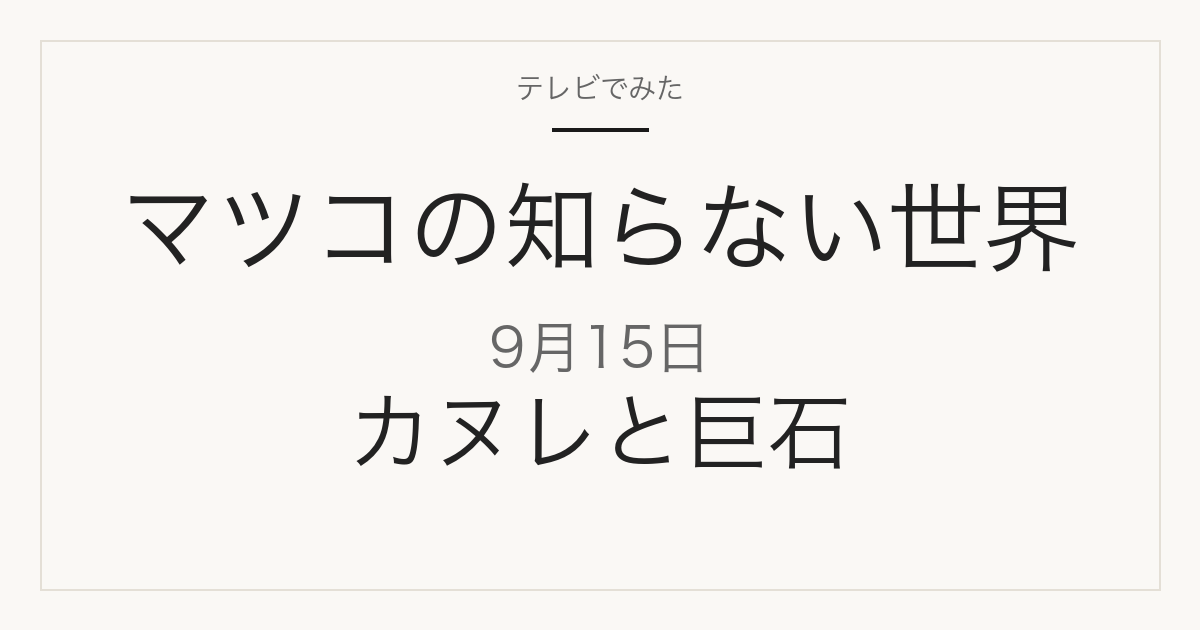
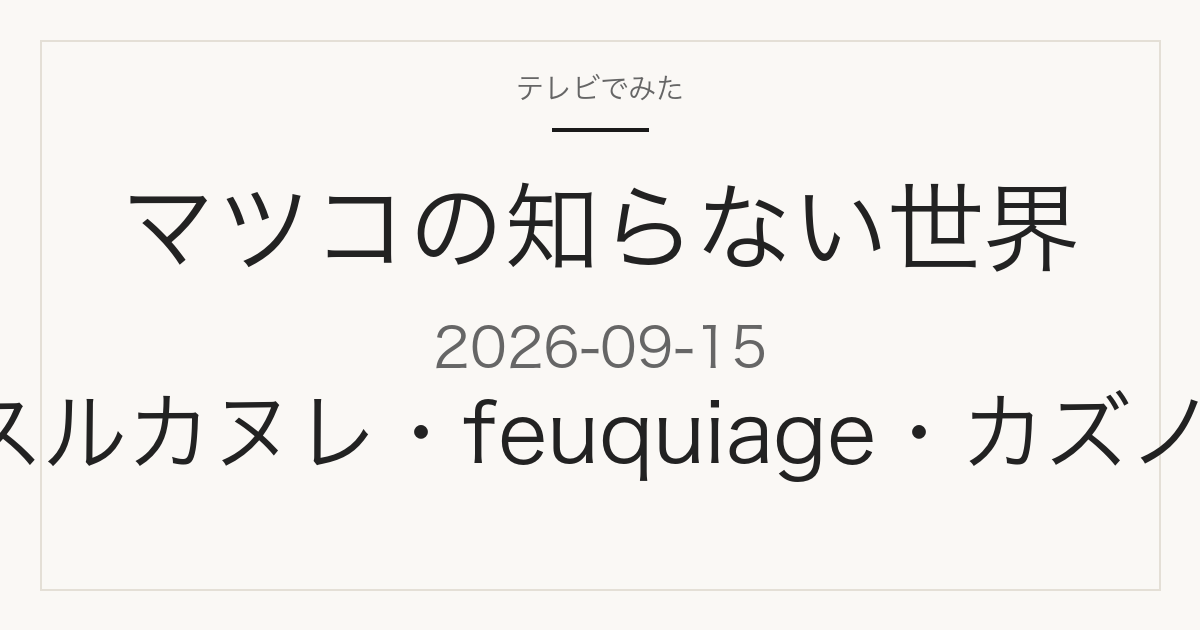
マツコ9/15 放送中更新：紹介された7件を追記 (job content-refresh_existing-22638fa574c0042b v2) (#93)

diff --git a/site/2026-09-15/matsuko/index.html b/site/2026-09-15/matsuko/index.html
@@ -5,29 +5,29 @@
   <script>window.dataLayer=window.dataLayer||[];function gtag(){dataLayer.push(arguments)}gtag('js',new Date());gtag('config','G-YC6J6RL22P');</script>
   <meta charset="utf-8">
   <meta name="viewport" content="width=device-width,initial-scale=1">
-  <title>マツコの知らない世界 9月15日｜カヌレ＆巨石の世界</title>
-  <meta name="description" content="2026年9月15日（火）よる8時55分放送のマツコの知らない世界。王道から甘くない進化系まで、美形カヌレ3選、パン屋のカヌレ、ワインと楽しむ大人のカヌレ。巨石は島根県出雲の秘境へ。">
+  <title>マツコの知らない世界 9月15日｜カヌレの世界で紹介された7店</title>
+  <meta name="description" content="2026年9月15日（火）放送のマツコの知らない世界カヌレの世界で紹介された、クラマエカヌレ・タビスルカヌレ・feuquiage（フキアージュ）・カズノリイケダ・代官山シェ・リュイ・ローソン・カルディコーヒーファームの7店をまとめています。放送中の確認内容として随時更新（最終更新21:39）。">
   <meta name="robots" content="index,follow,max-image-preview:large">
   <link rel="canonical" href="https://tv-mita.jp/2026-09-15/matsuko/">
   <meta property="og:type" content="article">
-  <meta property="og:title" content="マツコの知らない世界 9月15日｜カヌレ＆巨石の世界">
-  <meta property="og:description" content="2026年9月15日（火）よる8時55分放送のマツコの知らない世界。王道から甘くない進化系まで、美形カヌレ3選、パン屋のカヌレ、ワインと楽しむ大人のカヌレ。巨石は島根県出雲の秘境へ。">
+  <meta property="og:title" content="マツコの知らない世界 9月15日｜カヌレの世界で紹介された7店">
+  <meta property="og:description" content="2026年9月15日（火）放送のマツコの知らない世界カヌレの世界で紹介された、クラマエカヌレ・タビスルカヌレ・feuquiage（フキアージュ）・カズノリイケダ・代官山シェ・リュイ・ローソン・カルディコーヒーファームの7店をまとめています。">
   <meta property="og:url" content="https://tv-mita.jp/2026-09-15/matsuko/">
   <meta property="og:image" content="https://tv-mita.jp/og/2026-09-15-matsuko.png">
   <meta property="og:image:width" content="1200">
   <meta property="og:image:height" content="630">
-  <meta property="og:image:alt" content="マツコの知らない世界 カヌレと巨石 2026-09-15">
+  <meta property="og:image:alt" content="マツコの知らない世界 カヌレの世界で紹介された7店 2026-09-15">
   <meta name="twitter:card" content="summary_large_image">
-  <meta name="twitter:title" content="マツコの知らない世界 9月15日｜カヌレ＆巨石の世界">
-  <meta name="twitter:description" content="2026年9月15日（火）よる8時55分放送のマツコの知らない世界。王道から甘くない進化系まで、美形カヌレ3選、パン屋のカヌレ、ワインと楽しむ大人のカヌレ。巨石は島根県出雲の秘境へ。">
+  <meta name="twitter:title" content="マツコの知らない世界 9月15日｜カヌレの世界で紹介された7店">
+  <meta name="twitter:description" content="2026年9月15日（火）放送のマツコの知らない世界カヌレの世界で紹介された7店をまとめています。">
   <meta name="twitter:image" content="https://tv-mita.jp/og/2026-09-15-matsuko.png">
   <link rel="stylesheet" href="../../styles.css">
   <script defer src="/analytics.js"></script>
-  <script type="application/ld+json">{"@context":"https://schema.org","@graph":[{"@type":"Article","headline":"マツコの知らない世界 9月15日｜カヌレ＆巨石の世界","description":"2026年9月15日（火）よる8時55分放送のマツコの知らない世界。王道から甘くない進化系まで、美形カヌレ3選、パン屋のカヌレ、ワインと楽しむ大人のカヌレ。巨石は島根県出雲の秘境へ。","datePublished":"2026-09-15T10:08:00+09:00","dateModified":"2026-09-15T10:08:00+09:00","image":"https://tv-mita.jp/og/2026-09-15-matsuko.png","mainEntityOfPage":"https://tv-mita.jp/2026-09-15/matsuko/","publisher":{"@type":"Organization","name":"テレビでみた"},"author":{"@type":"Organization","name":"テレビでみた編集部"}},{"@type":"BreadcrumbList","itemListElement":[{"@type":"ListItem","position":1,"name":"ホーム","item":"https://tv-mita.jp/"},{"@type":"ListItem","position":2,"name":"マツコの知らない世界","item":"https://tv-mita.jp/matsuko/"},{"@type":"ListItem","position":3,"name":"9月15日","item":"https://tv-mita.jp/2026-09-15/matsuko/"}]}]}</script>
+  <script type="application/ld+json">{"@context":"https://schema.org","@graph":[{"@type":"Article","headline":"マツコの知らない世界 9月15日｜カヌレの世界で紹介された7店","description":"2026年9月15日放送のマツコの知らない世界カヌレの世界で紹介された、クラマエカヌレ・タビスルカヌレ・feuquiage（フキアージュ）・カズノリイケダ・代官山シェ・リュイ・ローソン・カルディコーヒーファームの7店をまとめています。","datePublished":"2026-09-15T10:08:00+09:00","dateModified":"2026-09-15T21:39:00+09:00","image":"https://tv-mita.jp/og/2026-09-15-matsuko.png","mainEntityOfPage":"https://tv-mita.jp/2026-09-15/matsuko/","publisher":{"@type":"Organization","name":"テレビでみた"},"author":{"@type":"Organization","name":"テレビでみた編集部"}},{"@type":"BreadcrumbList","itemListElement":[{"@type":"ListItem","position":1,"name":"ホーム","item":"https://tv-mita.jp/"},{"@type":"ListItem","position":2,"name":"マツコの知らない世界","item":"https://tv-mita.jp/matsuko/"},{"@type":"ListItem","position":3,"name":"9月15日","item":"https://tv-mita.jp/2026-09-15/matsuko/"}]}]}</script>
 </head>
 <body>
   <header class="site-header"><div class="header-inner"><p class="brand"><a href="../../"><span class="brand-mark">TV</span>テレビでみた</a></p><p class="header-note">テレビ紹介商品の記録メディア</p></div></header>
-  <main class="program-main" data-article-id="article-fff1424e9c1c7699" data-article-slug="2026-09-15-matsuko" data-article-version="1">
+  <main class="program-main" data-article-id="article-fff1424e9c1c7699" data-article-slug="2026-09-15-matsuko" data-article-version="2">
     <nav class="breadcrumbs" aria-label="パンくず"><a href="../../">ホーム</a><span aria-hidden="true">›</span><a href="../../matsuko/">マツコの知らない世界</a><span aria-hidden="true">›</span><span>9月15日</span></nav>
 
     <p class="house-notice">この記事には広告・アフィリエイトリンクが含まれる場合があります。</p>
@@ -38,15 +38,79 @@
       <p class="next-time">よる8時55分から（TBS・関東）</p>
       <h1 id="page-title">マツコの知らない世界<br>カヌレ＆巨石の世界</h1>
       <p class="program-feature">地味だけど奥深い！カヌレと巨石を2本立てで</p>
-      <p class="program-hero-note">これは<strong>放送前の記事</strong>です。番組公式で確認できた内容だけを載せています。<strong>店名・商品名・価格はまだ発表されていません。</strong>放送後、確認できたものから同じページに追記します。</p>
-      <a class="program-primary-link" href="#preview">紹介予定の内容を見る <span aria-hidden="true">↓</span></a>
+      <p class="program-hero-note"><strong>放送中に更新しています（最終更新：2026年09月15日 21:39）。</strong>カヌレの世界で紹介された店を、確認できたものから追記しています。価格・順位・受賞など未確認の情報は載せていません。</p>
+      <a class="program-primary-link" href="#confirmed">紹介された店を見る <span aria-hidden="true">↓</span></a>
     </section>
 
     <p class="item-image hero-image"><img src="../../og/2026-09-15-matsuko.png" width="1200" height="630" alt="マツコの知らない世界 カヌレと巨石 2026-09-15"></p>
 
+    <section class="program-section" id="confirmed" aria-labelledby="confirmed-title">
+      <div class="section-heading"><div><p class="section-kicker">放送中に確認</p><h2 id="confirmed-title">カヌレの世界で紹介された店</h2></div><p class="live-status"><span aria-hidden="true"></span>更新 21:39</p></div>
+      <p class="template-note">放送中のライブ字幕と、相互に独立した複数の視聴者投稿の一致から、次の7店が番組で紹介されたことを確認しています。店名・所在地・公式URLは各店舗の公式サイトで確認しています（2026年9月15日確認）。<strong>価格・順位・受賞など未確認の数値は載せていません。</strong></p>
+      <div class="flash-product-list">
+        <article class="item">
+          <p class="eyebrow">紹介された（放送中に確認）</p>
+          <p class="brand-name">東京都台東区・蔵前</p>
+          <h3>クラマエカヌレ（KURAMAE CANNELE）</h3>
+          <p>蔵前本店（テイクアウト専門）のほか、エキュート上野にも店舗があります。放送中のライブ字幕と、独立した視聴者投稿8件の一致で紹介を確認しました。</p>
+          <p class="buy-note"><a href="https://www.kuramae-cannele.jp" rel="external nofollow">クラマエカヌレ 公式サイト</a></p>
+        </article>
+        <article class="item">
+          <p class="eyebrow">紹介された（放送中に確認）</p>
+          <p class="brand-name">オンライン販売（宮城県産ベリー使用）</p>
+          <h3>タビスルカヌレ</h3>
+          <p>実店舗を持たず、宮城県産ベリーを使ったカヌレをオンラインで販売しています。番組では仙台の店として紹介されました。放送中のライブ字幕と、独立した視聴者投稿6件の一致で紹介を確認しました。</p>
+          <p class="buy-note"><a href="https://tabicannele.base.shop/" rel="external nofollow">タビスルカヌレ 公式サイト</a></p>
+        </article>
+        <article class="item">
+          <p class="eyebrow">紹介された（放送中に確認）</p>
+          <p class="brand-name">東京都調布市</p>
+          <h3>feuquiage（フキアージュ）</h3>
+          <p>調布本店（東京都調布市小島町1-2-5 アジャンタ調布2 1F）のほか、仙川店（調布市仙川町1-3-32）があります。畠山和也シェフの店です。放送中のライブ字幕と、独立した視聴者投稿29件の一致で紹介を確認しました。</p>
+          <p class="buy-note"><a href="https://feuquiage.com/" rel="external nofollow">feuquiage（フキアージュ） 公式サイト</a></p>
+        </article>
+        <article class="item">
+          <p class="eyebrow">紹介された（放送中に確認）</p>
+          <p class="brand-name">宮城県仙台市</p>
+          <h3>kazunori ikeda individuel（カズノリイケダ）</h3>
+          <p>仙台市青葉区一番町2-2-3のほか、仙台市内に店舗があります。放送中のライブ字幕と、独立した視聴者投稿8件の一致で紹介を確認しました。</p>
+          <p class="buy-note"><a href="https://www.kazunoriikeda.co.jp/" rel="external nofollow">kazunori ikeda individuel 公式サイト</a></p>
+        </article>
+        <article class="item">
+          <p class="eyebrow">紹介された（放送中に確認）</p>
+          <p class="brand-name">東京都・代官山</p>
+          <h3>代官山シェ・リュイ（シェリュイ）</h3>
+          <p>代官山を中心に展開するパン／洋菓子店です。放送中のライブ字幕と、独立した視聴者投稿13件の一致で紹介を確認しました。</p>
+          <p class="buy-note"><a href="https://www.chez-lui.com/" rel="external nofollow">代官山シェ・リュイ 公式サイト</a></p>
+        </article>
+        <article class="item">
+          <p class="eyebrow">紹介された（放送中に確認）</p>
+          <p class="brand-name">全国のコンビニエンスストア</p>
+          <h3>ローソン</h3>
+          <p>全国の店舗で扱う市販のカヌレです。放送中のライブ字幕と、独立した視聴者投稿19件の一致で紹介を確認しました。</p>
+          <p class="buy-note"><a href="https://www.lawson.co.jp/" rel="external nofollow">ローソン 公式サイト</a></p>
+        </article>
+        <article class="item">
+          <p class="eyebrow">紹介された（放送中に確認）</p>
+          <p class="brand-name">全国の店舗</p>
+          <h3>カルディコーヒーファーム（KALDI）</h3>
+          <p>全国の店舗で扱う市販のカヌレです。放送中のライブ字幕と、独立した視聴者投稿11件の一致で紹介を確認しました。</p>
+          <p class="buy-note"><a href="https://www.kaldi.co.jp/" rel="external nofollow">カルディコーヒーファーム 公式サイト</a></p>
+        </article>
+      </div>
+      <p class="update-note">最終更新：2026年09月15日 21:39　紹介の確認は、放送中のライブ字幕と、相互に独立した複数の視聴者投稿の一致によるものです。番組公式での掲載を追加で待たず、確認できたものから随時追記します。</p>
+    </section>
+
+    <section class="program-section" id="announced" aria-labelledby="announced-title">
+      <div class="section-heading"><div><p class="section-kicker">放送前の告知</p><h2 id="announced-title">店側が紹介を告知していた店</h2></div></div>
+      <p><strong>PAUL</strong>は、放送前に自社のFacebookで「9月15日放映予定のTBS系『マツコの知らない世界』でPAULが紹介されることになりました」と告知していました。これは<strong>店側による告知</strong>であり、番組で実際に紹介されたことの確認とは区別しています。</p>
+      <p class="buy-note"><a href="https://www.facebook.com/paul1889.japan/posts/%E3%81%8A%E7%9F%A5%E3%82%89%E3%81%9B-tbs%E7%B3%BB%E3%83%9E%E3%83%84%E3%82%B3%E3%81%AE%E7%9F%A5%E3%82%89%E3%81%AA%E3%81%84%E4%B8%96%E7%95%8C-9%E6%9C%8815%E6%97%A5%E6%94%BE%E6%98%A0%E4%BA%88%E5%AE%9A%E3%81%AE-%E3%82%AB%E3%83%8C%E3%83%AC%E3%81%AE%E4%B8%96%E7%95%8C%E3%81%ABpaul%E3%81%8C%E7%B4%B9%E4%BB%8B%E3%81%95%E3%82%8C%E3%82%8B%E3%81%93%E3%81%A8%E3%81%AB%E3%81%AA%E3%82%8A%E3%81%BE%E3%81%97%E3%81%9F-%E6%94%BE%E9%80%81%E3%82%92%E8%A8%98%E5%BF%B5%E3%81%97%E3%81%A6%E3%81%8A%E5%BE%97%E3%81%AA%E3%82%AF%E3%83%BC%E3%83%9D%E3%83%B3%E3%81%8C%E3%82%82%E3%82%89%E3%81%88%E3%82%8B%E4%BC%81%E7%94%BB%E3%82%82%E9%96%8B/1664657672336006/" rel="external nofollow">PAUL Japan公式Facebook（お知らせ投稿）</a></p>
+      <p class="source-note">番組で実際に紹介されたかどうかは、放送中のライブ字幕・視聴者投稿での言及を確認できていません。確認できしだい、上の「紹介された店」欄に移します。</p>
+    </section>
+
     <section class="program-section" id="preview" aria-labelledby="preview-title">
-      <div class="section-heading"><div><p class="section-kicker">公式予告で確認</p><h2 id="preview-title">カヌレの世界</h2></div><p class="live-status"><span aria-hidden="true"></span>店名は未発表</p></div>
-      <p>番組公式によると、カヌレの回では次の内容が予定されています。<strong>店名・商品名・価格はいずれも公式に記載がありません。</strong></p>
+      <div class="section-heading"><div><p class="section-kicker">公式予告で確認</p><h2 id="preview-title">カヌレの世界</h2></div><p class="live-status"><span aria-hidden="true"></span>放送前の企画紹介</p></div>
+      <p>番組公式によると、カヌレの回では次の内容が予定されていました。放送中に確認できた店名は、上の「紹介された店」欄にまとめています。</p>
       <ul>
         <li><strong>王道から甘くない進化系まで</strong> — 公式の表現は「ガリッ！もちっ！」</li>
         <li><strong>今注目のとろ〜り食感</strong></li>
@@ -70,9 +134,9 @@
 
     <section class="program-section" aria-labelledby="after-title">
       <div class="section-heading"><div><p class="section-kicker">見たあとに</p><h2 id="after-title">気になったカヌレを探すには</h2></div></div>
-      <p>カヌレは店名さえ分かれば、通販で取り寄せられるものが多い焼き菓子です。ただ放送中は店名が一瞬で流れてしまい、あとから思い出せないことがよくあります。</p>
-      <p>このページは<strong>同じURLのまま</strong>更新します。放送を見ながらブックマークしておけば、あとで店名・商品名・価格を確認できます。</p>
-      <p class="source-note">載せるのは、番組公式か店舗の公式情報で確認できたものだけです。SNSの投稿だけを根拠にした断定はしません。</p>
+      <p>放送中に紹介された7店は、上の「紹介された店」欄にまとめています。カヌレは店名さえ分かれば、通販で取り寄せられるものが多い焼き菓子です。</p>
+      <p>このページは<strong>同じURLのまま</strong>更新します。放送を見ながらブックマークしておけば、あとで店名・所在地を確認できます。</p>
+      <p class="source-note">店名・所在地・公式URLは、店舗の公式情報で確認できたものだけを載せています。価格・順位・受賞など未確認の数値は載せていません。</p>
     </section>
 
     <section class="program-section related-articles" aria-labelledby="related-title">
@@ -88,7 +152,8 @@
       <h2 id="source-title">出典</h2>
       <p><a href="https://www.tbs.co.jp/tv/20260915_BCAE.html" rel="external nofollow" data-track-event="click_official_source">TBS「マツコの知らない世界　地味だけど奥深い！カヌレ&amp;巨石の世界」放送回ページ</a></p>
       <p><a href="https://www.tbs.co.jp/matsuko-sekai/" rel="external" data-track-event="click_official_source">TBS「マツコの知らない世界」番組公式</a></p>
-      <p class="source-note">当サイトは番組公式サイトではありません。放送内容は変更になる場合があります。</p>
+      <p>紹介された店の公式サイト：<a href="https://www.kuramae-cannele.jp" rel="external nofollow" data-track-event="click_official_source">クラマエカヌレ</a>／<a href="https://tabicannele.base.shop/" rel="external nofollow" data-track-event="click_official_source">タビスルカヌレ</a>／<a href="https://feuquiage.com/" rel="external nofollow" data-track-event="click_official_source">feuquiage（フキアージュ）</a>／<a href="https://www.kazunoriikeda.co.jp/" rel="external nofollow" data-track-event="click_official_source">kazunori ikeda individuel</a>／<a href="https://www.chez-lui.com/" rel="external nofollow" data-track-event="click_official_source">代官山シェ・リュイ</a>／<a href="https://www.lawson.co.jp/" rel="external nofollow" data-track-event="click_official_source">ローソン</a>／<a href="https://www.kaldi.co.jp/" rel="external nofollow" data-track-event="click_official_source">カルディコーヒーファーム</a>（いずれも2026年9月15日確認）</p>
+      <p class="source-note">当サイトは番組公式サイトではありません。放送内容は変更になる場合があります。「紹介された店」欄の確認根拠は、放送中のライブ字幕と、相互に独立した複数の視聴者投稿の一致です。</p>
     </section>
   </main>
   <footer class="site-footer">

diff --git a/site/matsuko/index.html b/site/matsuko/index.html
@@ -54,9 +54,9 @@
             <div class="home-card-body">
               <p class="broadcast-date"><time datetime="2026-09-15"><strong>9月15日</strong><span>（火）よる8時55分</span></time></p>
               <p class="home-card-program">カヌレの世界と巨石の世界</p>
-              <h3>紹介予定の内容</h3>
-              <p class="card-summary">公式予告で確認できた企画を掲載。店名・商品名・価格は放送後に追記します。</p>
-              <p class="home-card-link">放送前情報を見る <span aria-hidden="true">→</span></p>
+              <h3>紹介された7店（クラマエカヌレ・フキアージュほか）</h3>
+              <p class="card-summary">放送中に紹介が確認できた7店をまとめています。価格・順位など未確認の情報は載せていません。</p>
+              <p class="home-card-link">紹介された店を見る <span aria-hidden="true">→</span></p>
             </div>
           </a>
         </article>

diff --git a/site/index.html b/site/index.html
@@ -62,8 +62,8 @@
             <div class="home-card-body">
               <p class="broadcast-date"><time datetime="2026-09-15"><strong>9月15日</strong><span>（火）よる8時55分</span></time></p>
               <p class="home-card-program">マツコの知らない世界</p>
-              <h3>カヌレ＆巨石の世界</h3>
-              <p class="home-card-link">紹介予定の内容を見る <span aria-hidden="true">→</span></p>
+              <h3>カヌレの世界で紹介された7店</h3>
+              <p class="home-card-link">紹介された店を見る <span aria-hidden="true">→</span></p>
             </div>
           </a>
         </article>
